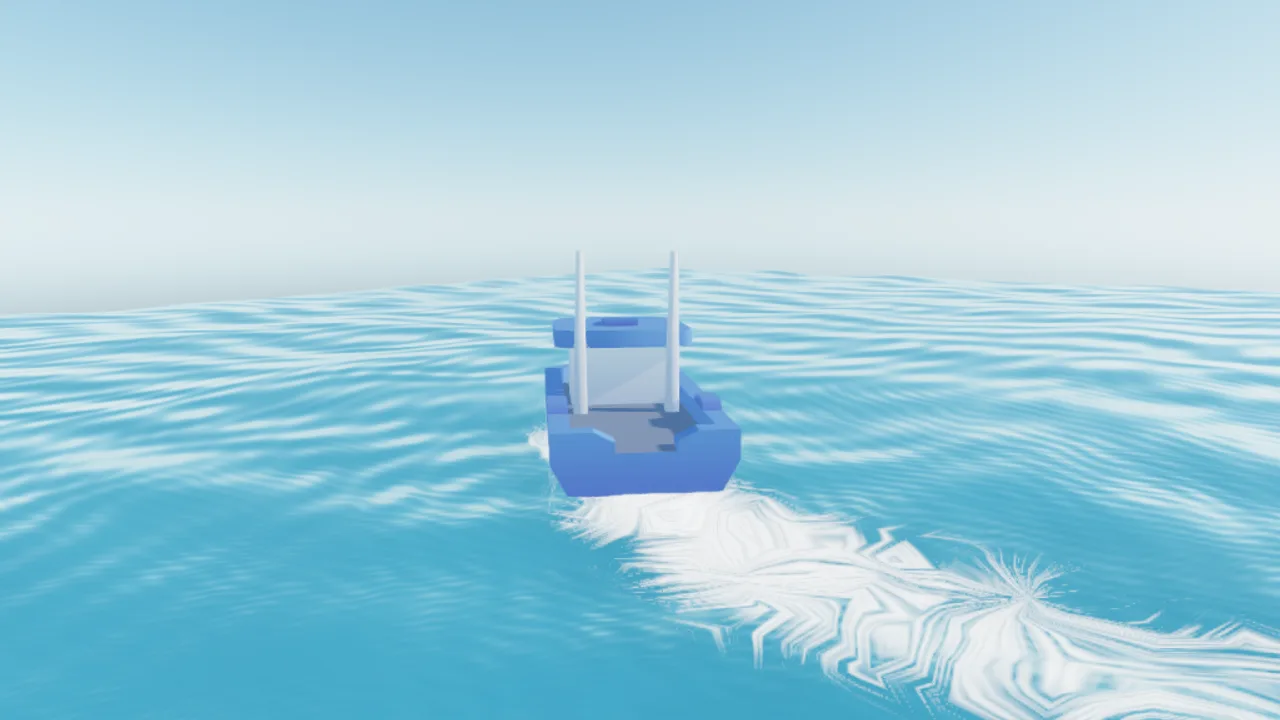
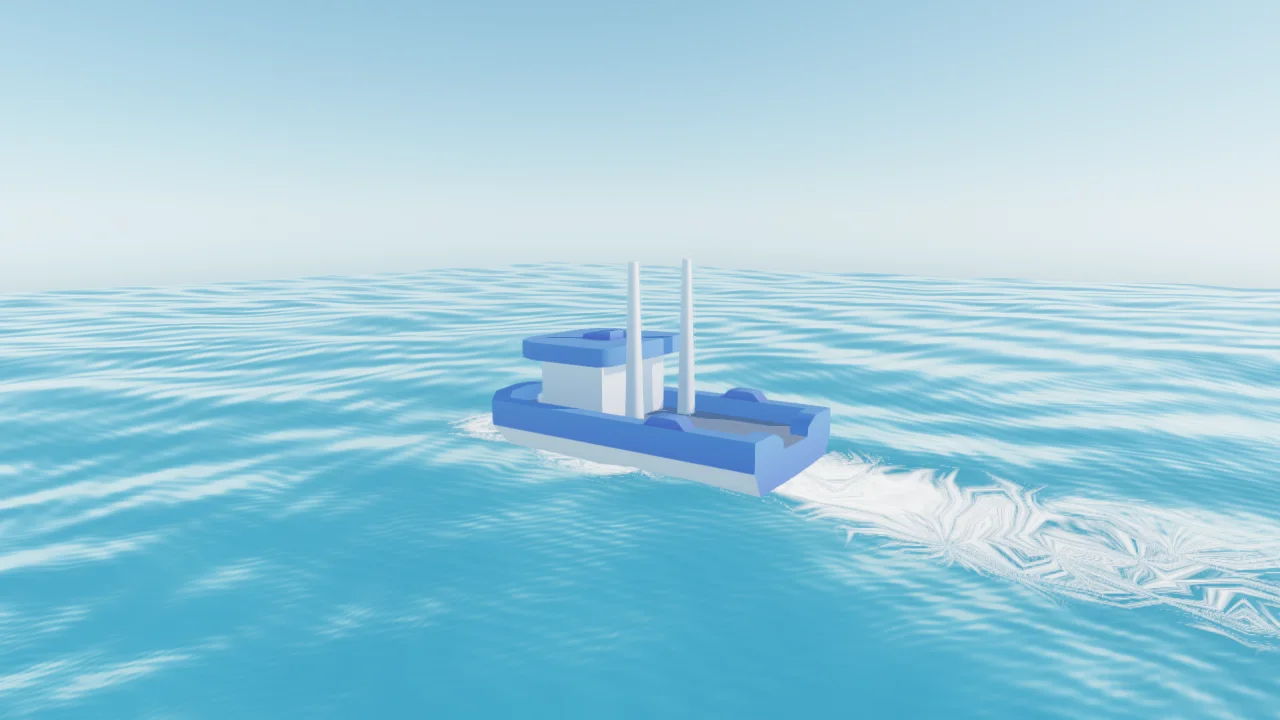
Redo the docs previews: clean wake, sharper explosion, larger assets (#2219)
The ocean wake is rendered at 1280x720 at a time with no foam fan, the
explosion is a high-contrast frame with sparks and debris, the assets
preview fills the frame, and the unchanged view2d preview is restored.

diff --git a/docs/learn/explosions-and-volumes.md b/docs/learn/explosions-and-volumes.md
@@ -1,8 +1,8 @@
 # Explosions and volumes
 
-![A baked explosion cloud over a sandy ground](/previews/feature-explosion.webp)
+![An explosion with a fireball, sparks and flying debris over dark ground](/previews/feature-explosion.webp)
 
-An explosion, fire or smoke plume is a grid of numbers: `shape: "grid"` fills a box with a 3D texture of `density` and, optionally, `temperature` and `flame`. The picture is one frame of a converted grid, drawn by the rasterizer.
+An explosion, fire or smoke plume is a grid of numbers: `shape: "grid"` fills a box with a 3D texture of `density` and, optionally, `temperature` and `flame`. The picture is one frame of the `add-explosion` blast, rendered by Crucible through the MCP render job.
 
 - Draw a grid or noise volume inside a scene: [Depth-clipped volume fog](/volumetric.md).
 - Bake the grid yourself with the gas solver in `src/gas-sim.js`, described in the same guide.

diff --git a/docs/learn/ocean-and-boat-wake.md b/docs/learn/ocean-and-boat-wake.md
@@ -1,6 +1,6 @@
 # Ocean and boat wake
 
-![A fishing boat turning through ocean waves, with a wake of foam behind it](/previews/feature-ocean-wake.webp)
+![A fishing boat under way through ocean waves, with a wake of foam behind it](/previews/feature-ocean-wake.webp)
 
 The `ocean` mesh edit draws a sea, and a crate or a boat that you mark as floating rides its waves. The picture is one frame of the boat scene, rendered by Crucible through the MCP render job.
 
